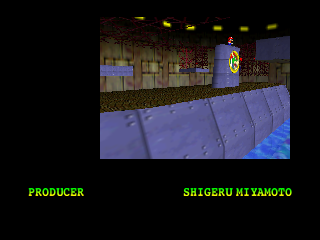
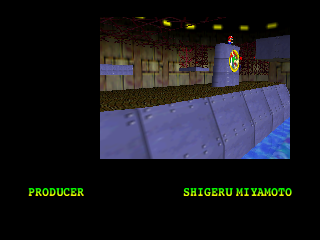
Simplify viewport + scissor calculation

diff --git a/wafel_viz/src/f3d_interpret.rs b/wafel_viz/src/f3d_interpret.rs
@@ -154,7 +154,7 @@ impl<Ptr: fmt::Debug + Copy + PartialEq> State<Ptr> {
         let mut width = 2.0 * viewport.scale[0] as f32 / 4.0;
         let mut height = 2.0 * viewport.scale[1] as f32 / 4.0;
         let mut x = (viewport.trans[0] as f32 / 4.0) - width / 2.0;
-        let mut y = 240.0 - ((viewport.trans[1] as f32 / 4.0) + height / 2.0);
+        let mut y = (viewport.trans[1] as f32 / 4.0) - height / 2.0;
 
         x *= self.screen_scale_x();
         y *= self.screen_scale_y();
@@ -181,7 +181,7 @@ impl<Ptr: fmt::Debug + Copy + PartialEq> State<Ptr> {
 
         backend.set_scissor(
             (ulx * self.screen_scale_x()) as i32,
-            ((240.0 - lry) * self.screen_scale_y()) as i32,
+            (uly * self.screen_scale_y()) as i32,
             ((lrx - ulx) * self.screen_scale_x()) as i32,
             ((lry - uly) * self.screen_scale_y()) as i32,
         );

diff --git a/wafel_viz/src/f3d_renderer.rs b/wafel_viz/src/f3d_renderer.rs
@@ -485,11 +485,9 @@ impl F3DRenderer {
             if w == 0 || h == 0 {
                 continue;
             }
-            let y = output_size.1 as i32 - y - h;
             rp.set_viewport(x as f32, y as f32, w as f32, h as f32, 0.0, 1.0);
 
             let ScreenRectangle { x, y, w, h } = command.scissor;
-            let y = output_size.1 as i32 - y - h;
             let x0 = x.clamp(0, output_size.0 as i32);
             let y0 = y.clamp(0, output_size.1 as i32);
             let x1 = (x + w).clamp(0, output_size.0 as i32);

diff --git a/wafel_viz/src/lib.rs b/wafel_viz/src/lib.rs
@@ -168,7 +168,7 @@ pub fn test_dl() -> Result<(), Box<dyn Error>> {
 
     // assert!(data0.compare(&data1));
     env_logger::init();
-    futures::executor::block_on(run(0, None)).unwrap();
+    futures::executor::block_on(run(145414, None)).unwrap();
     return Ok(());
 
     //     let w_type = IntType::u_ptr_native();
